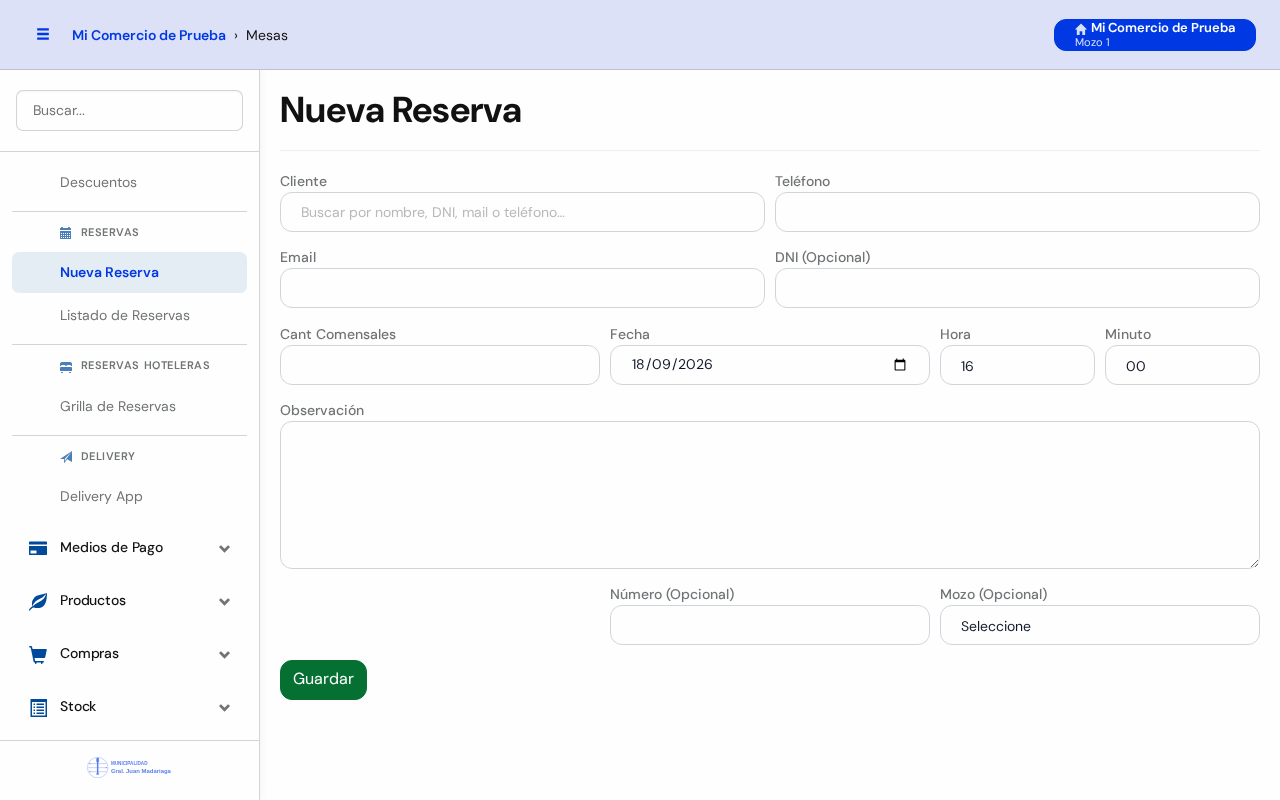
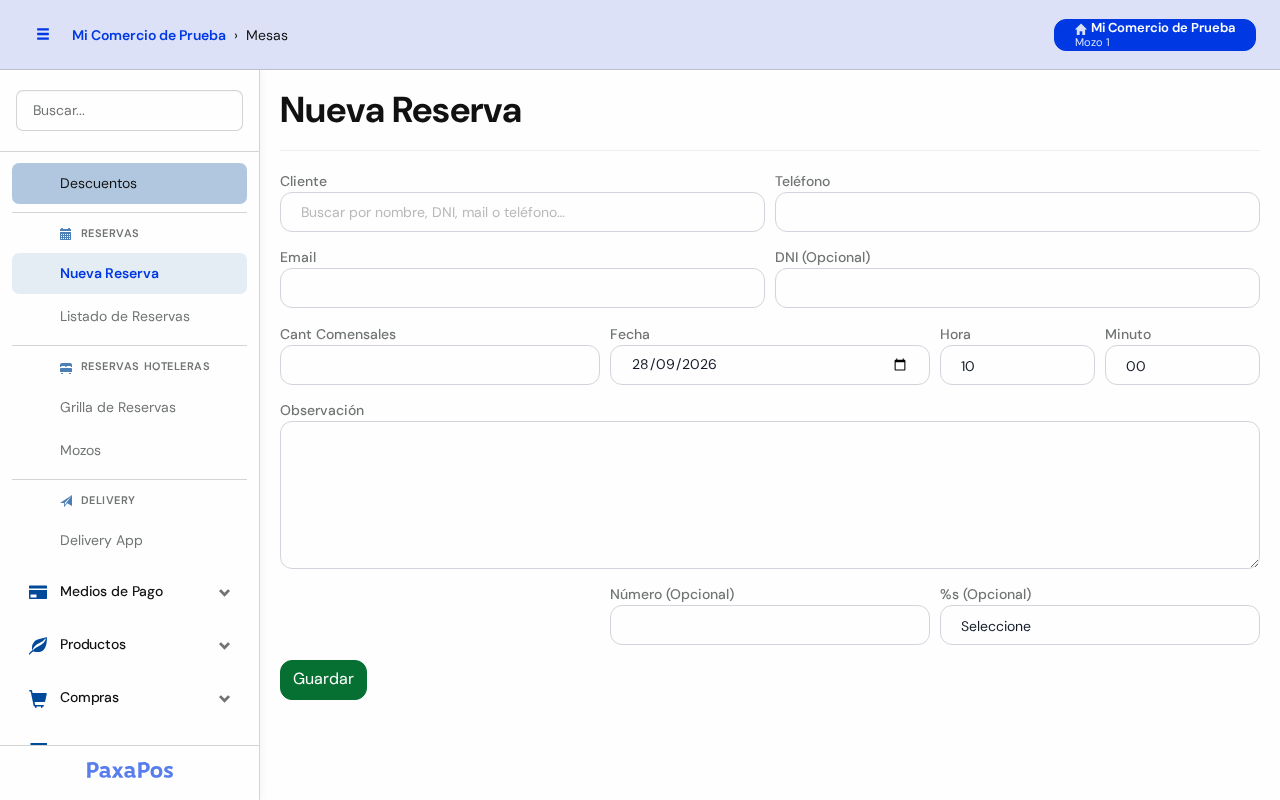
docs(manual): capturas por botón en 27 Nueva Reserva y 28 Listado de Reservas
Recetas 27 y 28 contra dev2. Nueva Reserva: cada campo con datos de mentira,
Guardar y el aviso de cliente sin contacto (el formulario nunca se envía).
Listado: botones, colores, ocupación y la ventanita de detalle (Recepcionar y
Cancelar reserva solo foto). Artículos reescritos paso a paso. Se recapturan
14 y 15: mostraban el logo de un comercio real en el menú lateral.

Refs #150 #151

diff --git a/src/routes/user-guide/Manual-Usuario/20-Ventas/28-Listado-de-Reservas.md b/src/routes/user-guide/Manual-Usuario/20-Ventas/28-Listado-de-Reservas.md
@@ -2,58 +2,158 @@
 
 <div id="listado-de-reservas"></div>
 
+> **¿Dónde está en el sistema?:** Menú principal → **Ventas** → **Listado de Reservas**  
+> **¿Quién lo usa?:** Recepción, cajeros y encargados
+
 > 🎯 **¿Para qué sirve esto?**
-> El Listado de Reservas te muestra un calendario con todas las reservas cargadas, para que puedas ver de un vistazo qué clientes vienen cada día, recepcionarlos cuando lleguen o cancelar una reserva si avisan que no van a venir.
+> Es un calendario con todas las reservas. Te sirve para ver quién viene cada día, recibir al cliente cuando llega o cancelar la reserva si avisa que no viene.
 
 ---
 
-## 📍 **Paso 1: Accedé al Listado de Reservas**
+## 📍 **Paso 1: Entrá al Listado de Reservas**
 
-<div id="paso-1-accede-al-listado-de-reservas"></div>
+<div id="paso-1-entra-al-listado-de-reservas"></div>
 
-1. Desde el menú principal, tocá **Ventas** → **Listado de Reservas**.
-2. Se abrirá el calendario con las reservas del día.
+![Grupo Ventas del menú lateral](images/manual/20-ventas/28-00a-menu-grupo-ventas.png)
 
-![Calendario de reservas con la leyenda de colores por estado](images/manual/20-ventas/15-listado-reservas.png)
+1. En el menú de la izquierda, tocá **Ventas**. Se despliegan sus opciones.
 
-En esta pantalla vas a encontrar:
-- El botón verde **"Crear Reserva"** para cargar una nueva (ver [Nueva Reserva](/user-guide/nueva-reserva)).
-- El botón **"Turnos"** para configurar los horarios de atención.
-- El botón **"Configuración"** para ajustar las reglas de reservas.
-- La referencia de colores: 🔵 **Reservada**, 🟢 **Recepcionada**, ⚪ **Cancelada**.
-- El número en cada día muestra la ocupación (cubiertos reservados / capacidad del salón).
-- El checkbox **"Ver canceladas"** para mostrar u ocultar las reservas anuladas.
+![Opción Listado de Reservas dentro del grupo Ventas](images/manual/20-ventas/28-00b-menu-opcion-reservas-index.png)
+
+2. Bajá hasta la parte **Reservas** y tocá **Listado de Reservas**.
+3. Se abre el calendario del mes.
+
+![Calendario de reservas del mes](images/manual/20-ventas/15-listado-reservas.png)
 
 ---
 
-## 👁 **Paso 2: Consultá el detalle de una reserva**
+## 🗓 **Paso 2: Conocé la pantalla**
 
-<div id="paso-2-consulta-el-detalle-de-una-reserva"></div>
+<div id="paso-2-conoce-la-pantalla"></div>
 
-1. Tocá sobre cualquier reserva del calendario.
-2. Se abrirá una ventana con el detalle: **Turno**, **Ocupación**, **Mozo**, **Estado**, **Teléfono** (con acceso directo a WhatsApp) y **Observación**.
+### Botones de arriba a la derecha
+
+![Pantalla de reservas con el botón Crear Reserva marcado en rojo](images/manual/20-ventas/28-02-donde-esta-boton-crear-reserva.png)
+
+![Botón verde Crear Reserva](images/manual/20-ventas/28-03-boton-crear-reserva.png)
+
+- **Crear Reserva:** abre la pantalla para cargar una reserva nueva (ver [Nueva Reserva](/user-guide/nueva-reserva)).
+
+![Pantalla de reservas con el botón Turnos marcado en rojo](images/manual/20-ventas/28-04-donde-esta-boton-turnos.png)
+
+![Botón Turnos](images/manual/20-ventas/28-05-boton-turnos.png)
+
+- **Turnos:** para ver y cambiar los horarios de atención (por ejemplo, *Almuerzo* y *Cena*).
+
+![Pantalla de reservas con el botón Configuración marcado en rojo](images/manual/20-ventas/28-06-donde-esta-boton-configuracion.png)
+
+![Botón Configuración](images/manual/20-ventas/28-07-boton-configuracion.png)
+
+- **Configuración:** para cambiar las reglas de las reservas. Lo usa el encargado.
+
+### Los colores
+
+![Referencia de colores Reservada, Recepcionada y Cancelada](images/manual/20-ventas/28-32-referencia-colores.png)
+
+Cada reserva tiene un color según cómo está:
+
+- 🔵 **Reservada:** todavía no llegó.
+- 🟢 **Recepcionada:** el cliente ya llegó.
+- ⚪ **Cancelada:** no viene.
+
+![Casilla Ver canceladas](images/manual/20-ventas/28-08-campo-vercanceladas.png)
+
+- Las canceladas no se ven. Para verlas, tocá la casilla **Ver canceladas**.
+
+### Moverte por el calendario
+
+![Botones para ir al mes anterior, al siguiente y a hoy](images/manual/20-ventas/28-33-botones-mes-anterior-siguiente-hoy.png)
+
+- Tocá **<** o **>** para ir al mes anterior o al siguiente. Tocá **Hoy** para volver al día de hoy.
+
+![Botones Mes, Semana, Día y Lista](images/manual/20-ventas/28-34-botones-vista.png)
+
+- Tocá **Mes**, **Semana**, **Día** o **Lista** para cambiar cómo se ve el calendario.
+
+### La ocupación del día
+
+![Día del calendario con la ocupación 4/60 en verde y una reserva](images/manual/20-ventas/28-35-ocupacion-del-dia.png)
+
+- El número verde de cada día es la **ocupación**: cuántas personas reservaron y cuántas entran en el salón. Por ejemplo, *4/60*.
 
 ---
 
-## ✅ **Paso 3: Recepcioná a un cliente con reserva**
+## 👁 **Paso 3: Mirá los datos de una reserva**
 
-<div id="paso-3-recepciona-a-un-cliente-con-reserva"></div>
+<div id="paso-3-mira-los-datos-de-una-reserva"></div>
 
-1. Cuando el cliente llega al local, buscá su reserva en el calendario y tocála para abrir el detalle.
-2. Tocá el botón **"Recepcionar"**.
-3. El sistema marca la reserva como recepcionada y, si tenía una mesa del salón asignada, la pasa a estado ocupada.
+![Calendario con una reserva marcada en rojo](images/manual/20-ventas/28-36-donde-esta-reserva.png)
+
+![Reserva en el calendario con la hora y el nombre del cliente](images/manual/20-ventas/28-37-reserva-en-calendario.png)
+
+1. Tocá la reserva en el calendario. Muestra la hora y el nombre del cliente.
+2. Se abre una ventanita con los datos.
+
+![Ventanita con los datos de la reserva y sus botones](images/manual/20-ventas/28-38-ventana-detalle-reserva.png)
+
+En la ventanita vas a ver:
+
+- **Turno:** por ejemplo, *Almuerzo*.
+- **Ocupación:** cuántas personas vienen.
+- **Mozo**, **Estado** y **Observación**.
+- **Teléfono:** con un acceso a **WhatsApp** para escribirle al cliente.
+
+![Ventanita con el botón Cerrar marcado en rojo](images/manual/20-ventas/28-17-donde-esta-boton-cerrar.png)
+
+![Botón Cerrar](images/manual/20-ventas/28-18-boton-cerrar.png)
+
+3. Para salir sin hacer nada, tocá **Cerrar**.
 
 ---
 
-## ❌ **Paso 4: Cancelá una reserva**
+## ✅ **Paso 4: Recibí al cliente cuando llega**
 
-<div id="paso-4-cancela-una-reserva"></div>
+<div id="paso-4-recibi-al-cliente-cuando-llega"></div>
 
-1. Abrí el detalle de la reserva que querés anular.
-2. Tocá el botón **"Cancelar reserva"**.
-3. Confirmá la cancelación. La reserva queda marcada en gris y solo se vuelve a ver si activás el checkbox **"Ver canceladas"**.
+![Ventanita con el botón Recepcionar marcado en rojo](images/manual/20-ventas/28-11-donde-esta-boton-recepcionar.png)
 
-> 💡 **Consejo útil:** Desde el mismo detalle también podés tocar **"Editar"** para corregir la fecha, la hora o la cantidad de comensales sin tener que cancelar y volver a cargar la reserva.
+![Botón verde Recepcionar](images/manual/20-ventas/28-12-boton-recepcionar.png)
+
+1. Abrí la reserva del cliente que llegó.
+2. Tocá el botón verde **Recepcionar**.
+3. La reserva pasa a **Recepcionada** (color verde). Si tenía una mesa del salón, la mesa queda ocupada.
+
+---
+
+## ✏ **Paso 5: Cambiá una reserva**
+
+<div id="paso-5-cambia-una-reserva"></div>
+
+![Ventanita con el botón Editar marcado en rojo](images/manual/20-ventas/28-15-donde-esta-boton-editar.png)
+
+![Botón azul Editar](images/manual/20-ventas/28-16-boton-editar.png)
+
+1. Abrí la reserva.
+2. Tocá el botón azul **Editar**.
+3. Cambiá la fecha, la hora o la cantidad de personas y tocá **Guardar**.
+
+> 💡 **Consejo útil:** Si el cliente cambia el día, usá **Editar**. No hace falta cancelar y cargar otra.
+
+---
+
+## ❌ **Paso 6: Cancelá una reserva**
+
+<div id="paso-6-cancela-una-reserva"></div>
+
+> ⚠ **Atención:** Usalo solo si el cliente avisó que no viene.
+
+![Ventanita con el botón Cancelar reserva marcado en rojo](images/manual/20-ventas/28-13-donde-esta-boton-cancelar-reserva.png)
+
+![Botón rojo Cancelar reserva](images/manual/20-ventas/28-14-boton-cancelar-reserva.png)
+
+1. Abrí la reserva.
+2. Tocá el botón rojo **Cancelar reserva**.
+3. Confirmá. La reserva pasa a **Cancelada** y deja de verse en el calendario. Para verla, tocá **Ver canceladas**.
 
 ---
 
@@ -63,7 +163,6 @@ En esta pantalla vas a encontrar:
 
 | Problema | Causa más frecuente | Solución recomendada |
 |---|---|---|
-| **La reserva no aparece en el calendario** | Está cargada en otro día o fue cancelada. | Navegá a otros días del calendario o activá **"Ver canceladas"**. |
-| **No veo el botón "Recepcionar"** | La reserva ya fue recepcionada o cancelada previamente. | Verificá el estado de la reserva en el detalle antes de intentar recepcionarla de nuevo. |
-| **No puedo cancelar una reserva** | Tu usuario no tiene permiso de gestión de reservas. | Pedile al administrador que revise tus permisos en **Configuración → Roles y Permisos**. |
-
+| **No veo la reserva en el calendario** | Es de otro mes o está cancelada. | Tocá **>** para ir al mes siguiente, o tocá **Ver canceladas**. |
+| **No veo el botón Recepcionar** | La reserva ya fue recepcionada o cancelada. | Mirá el **Estado** en la ventanita. |
+| **No puedo cancelar ni cambiar una reserva** | Tu usuario no tiene permiso para las reservas. | Pedile al administrador que lo revise en [Permisos por Rol](/user-guide/permisos-por-rol). |

diff --git a/src/routes/user-guide/Manual-Usuario/20-Ventas/27-Nueva-Reserva.md b/src/routes/user-guide/Manual-Usuario/20-Ventas/27-Nueva-Reserva.md
@@ -2,52 +2,125 @@
 
 <div id="nueva-reserva"></div>
 
+> **¿Dónde está en el sistema?:** Menú principal → **Ventas** → **Nueva Reserva**  
+> **¿Quién lo usa?:** Recepción, cajeros y encargados
+
 > 🎯 **¿Para qué sirve esto?**
-> Nueva Reserva te permite agendar la llegada de un cliente a futuro: quién viene, cuántos son, qué día y a qué hora, y si ya sabés en qué mesa del salón los vas a ubicar.
+> Acá anotás que un cliente va a venir: quién es, cuántos son, qué día y a qué hora. Después la reserva aparece en el [Listado de Reservas](/user-guide/listado-de-reservas).
 
 ---
 
-## 📍 **Paso 1: Accedé al formulario de Nueva Reserva**
+## 📍 **Paso 1: Entrá a Nueva Reserva**
 
-<div id="paso-1-accede-al-formulario-de-nueva-reserva"></div>
+<div id="paso-1-entra-a-nueva-reserva"></div>
 
-1. Desde el menú principal, tocá **Ventas** → **Nueva Reserva**.
-2. Se abrirá el formulario de alta.
+![Grupo Ventas del menú lateral](images/manual/20-ventas/27-00a-menu-grupo-ventas.png)
 
-![Formulario de nueva reserva con datos del cliente, comensales, fecha y hora](images/manual/20-ventas/14-nueva-reserva-formulario.png)
+1. En el menú de la izquierda, tocá **Ventas**. Se despliegan sus opciones.
 
----
+![Opción Nueva Reserva dentro del grupo Ventas](images/manual/20-ventas/27-00b-menu-opcion-reservas-add.png)
 
-## 👤 **Paso 2: Completá los datos del cliente**
+2. Bajá hasta la parte **Reservas** y tocá **Nueva Reserva**.
+3. Se abre la pantalla para cargar la reserva.
 
-<div id="paso-2-completa-los-datos-del-cliente"></div>
-
-1. En el campo **Cliente**, escribí el nombre para buscarlo por nombre, DNI, mail o teléfono.
-2. Si aparece en los resultados, tocálo para autocompletar sus datos.
-3. Si es un cliente nuevo, completá al menos uno de estos campos para evitar duplicados:
-   - **Teléfono**
-   - **Email**
-   - **DNI** (opcional)
-
-> ⚠ **Atención:** Si guardás la reserva sin teléfono, mail ni DNI, el sistema te va a pedir una confirmación extra antes de crear un cliente sin datos de contacto.
+![Pantalla Nueva Reserva vacía](images/manual/20-ventas/14-nueva-reserva-formulario.png)
 
 ---
 
-## 📅 **Paso 3: Completá los datos de la reserva**
+## 👤 **Paso 2: Cargá quién viene**
 
-<div id="paso-3-completa-los-datos-de-la-reserva"></div>
+<div id="paso-2-carga-quien-viene"></div>
 
-1. **Comensales:** cantidad de personas que asistirán.
-2. **Fecha, Hora y Minuto:** cuándo va a llegar el cliente.
-3. **Observación:** cualquier pedido especial (ej: "cumpleaños", "silla de bebe").
-4. Opcionalmente, completá:
-   - **Mesa del Salón:** si ya sabés dónde vas a ubicarlos (solo si tu comercio tiene el mapa de mesas configurado).
-   - **Número:** un número de mesa de referencia.
-   - **Mozo:** el mozo que va a atenderlos.
-5. Si tu comercio tiene el asistente de IA habilitado, podés tocar **"Consultar a la IA si conviene"** para que analice las reglas de reservas antes de confirmar.
-6. Tocá **"Guardar"** para registrar la reserva.
+![Casillero Cliente con el nombre Juan Pérez](images/manual/20-ventas/27-02-campo-cliente.png)
 
-> 💡 **Consejo útil:** El sistema no te va a dejar pisar otra reserva de la misma mesa física si el horario está muy cerca de otra ya cargada. Si aparece un aviso de conflicto, elegí otro horario o mesa.
+1. En **Cliente**, escribí el nombre, el DNI, el mail o el teléfono.
+2. Si el cliente ya existe, aparece en una lista. Tocalo y sus datos se completan solos.
+3. Si es nuevo, dejá el nombre escrito. El cliente se crea al guardar.
+
+![Casillero Teléfono](images/manual/20-ventas/27-03-campo-telefono.png)
+
+4. En **Teléfono**, escribí el celular. Por ejemplo: *1155556666*.
+
+![Casillero Email](images/manual/20-ventas/27-04-campo-email.png)
+
+5. En **Email**, escribí el mail. Por ejemplo: *juan.perez@ejemplo.com*.
+
+![Casillero DNI opcional](images/manual/20-ventas/27-05-campo-dni-opcional.png)
+
+6. **DNI** es opcional.
+
+> 💡 **Consejo útil:** Cargá al menos el **teléfono**, el **mail** o el **DNI**. Así la próxima vez el sistema encuentra al mismo cliente y no lo repite.
+
+---
+
+## 📅 **Paso 3: Cargá cuándo y cuántos vienen**
+
+<div id="paso-3-carga-cuando-y-cuantos-vienen"></div>
+
+![Casillero Cant Comensales con el número 4](images/manual/20-ventas/27-06-campo-cant-comensales.png)
+
+1. En **Cant Comensales**, escribí cuántas personas vienen. Por ejemplo: *4*.
+
+![Casillero Fecha](images/manual/20-ventas/27-07-campo-fecha.png)
+
+2. En **Fecha**, elegí el día. Tocá el calendario 📅 de la derecha para elegirlo.
+
+![Lista Hora con las 21 elegidas](images/manual/20-ventas/27-08-campo-hora.png)
+
+3. En **Hora**, elegí la hora. Por ejemplo: *21*.
+
+![Lista Minuto con 00 elegido](images/manual/20-ventas/27-09-campo-minuto.png)
+
+4. En **Minuto**, elegí los minutos: *00*, *15*, *30* o *45*.
+
+![Casillero Observación con un pedido especial](images/manual/20-ventas/27-10-campo-observacion.png)
+
+5. En **Observación**, anotá cualquier pedido especial. Por ejemplo: *Cumpleaños. Mesa cerca de la ventana.*
+
+### Datos opcionales
+
+![Casillero Número opcional](images/manual/20-ventas/27-12-campo-numero.png)
+
+- **Número (Opcional):** el número de mesa, si ya sabés dónde los vas a sentar.
+
+![Lista para elegir el mozo, opcional](images/manual/20-ventas/27-13-campo-mozo-id.png)
+
+- **Mozo (Opcional):** el mozo que los va a atender.
+
+> ℹ Si tu comercio usa el mapa del salón, también vas a ver **Mesa Salón (Opcional)** para elegir la mesa. Si tiene el asistente de IA, vas a ver el botón **Consultar a la IA si conviene**.
+
+---
+
+## 💾 **Paso 4: Guardá la reserva**
+
+<div id="paso-4-guarda-la-reserva"></div>
+
+![Pantalla Nueva Reserva completa](images/manual/20-ventas/27-25-formulario-completo.png)
+
+1. Revisá que todo esté bien.
+
+![Pantalla Nueva Reserva con el botón Guardar marcado en rojo](images/manual/20-ventas/27-16-donde-esta-boton-guardar.png)
+
+![Botón verde Guardar](images/manual/20-ventas/27-17-boton-guardar.png)
+
+2. Tocá el botón verde **Guardar**, abajo a la izquierda.
+3. La reserva queda guardada y aparece en el calendario del [Listado de Reservas](/user-guide/listado-de-reservas).
+
+### Si aparece "Cliente sin datos de contacto"
+
+![Ventanita Cliente sin datos de contacto](images/manual/20-ventas/27-26-aviso-sin-contacto.png)
+
+Aparece si el cliente es nuevo y no cargaste teléfono, mail ni DNI. Todavía no se guardó nada.
+
+![Ventanita con el botón Volver y completar marcado en rojo](images/manual/20-ventas/27-20-donde-esta-boton-volver-y-completar.png)
+
+![Botón Volver y completar](images/manual/20-ventas/27-21-boton-volver-y-completar.png)
+
+- Tocá **Volver y completar** para cargar el teléfono, el mail o el DNI. **Es lo recomendado.**
+
+![Botón naranja Guardar igual](images/manual/20-ventas/27-22-boton-guardar-igual.png)
+
+- Tocá **Guardar igual** solo si de verdad no tenés ningún dato de contacto.
 
 ---
 
@@ -57,8 +130,7 @@
 
 | Problema | Causa más frecuente | Solución recomendada |
 |---|---|---|
-| **"No se pudo procesar la reserva en este momento"** | Dos personas intentaron reservar la misma mesa al mismo tiempo. | Reintentá la carga en unos segundos. |
-| **Aviso de conflicto con otra reserva** | Ya hay otra reserva muy cercana en horario para la misma mesa física. | Elegí otro horario u otra mesa del salón. |
-| **No aparece el campo "Mesa del Salón"** | Tu comercio no tiene el mapa de mesas configurado. | Dejá el campo vacío y asigná la mesa manualmente al recepcionar. |
-| **Se pide confirmar "cliente sin datos de contacto"** | No cargaste teléfono, mail ni DNI del cliente. | Volvé y completá al menos un dato de contacto, o tocá "Guardar igual" si es intencional. |
-
+| **"No se pudo procesar la reserva en este momento"** | Dos personas quisieron reservar la misma mesa al mismo tiempo. | Esperá unos segundos y probá de nuevo. |
+| **Aviso de choque con otra reserva** | Ya hay otra reserva para esa misma mesa en un horario muy cercano. | Elegí otro horario u otra mesa. |
+| **No aparece Mesa Salón** | Tu comercio no usa el mapa del salón. | Dejalo así. Si querés, escribí el número de mesa en **Número (Opcional)**. |
+| **Aparece "Cliente sin datos de contacto"** | El cliente es nuevo y no tiene teléfono, mail ni DNI. | Tocá **Volver y completar** y cargá al menos uno. |
